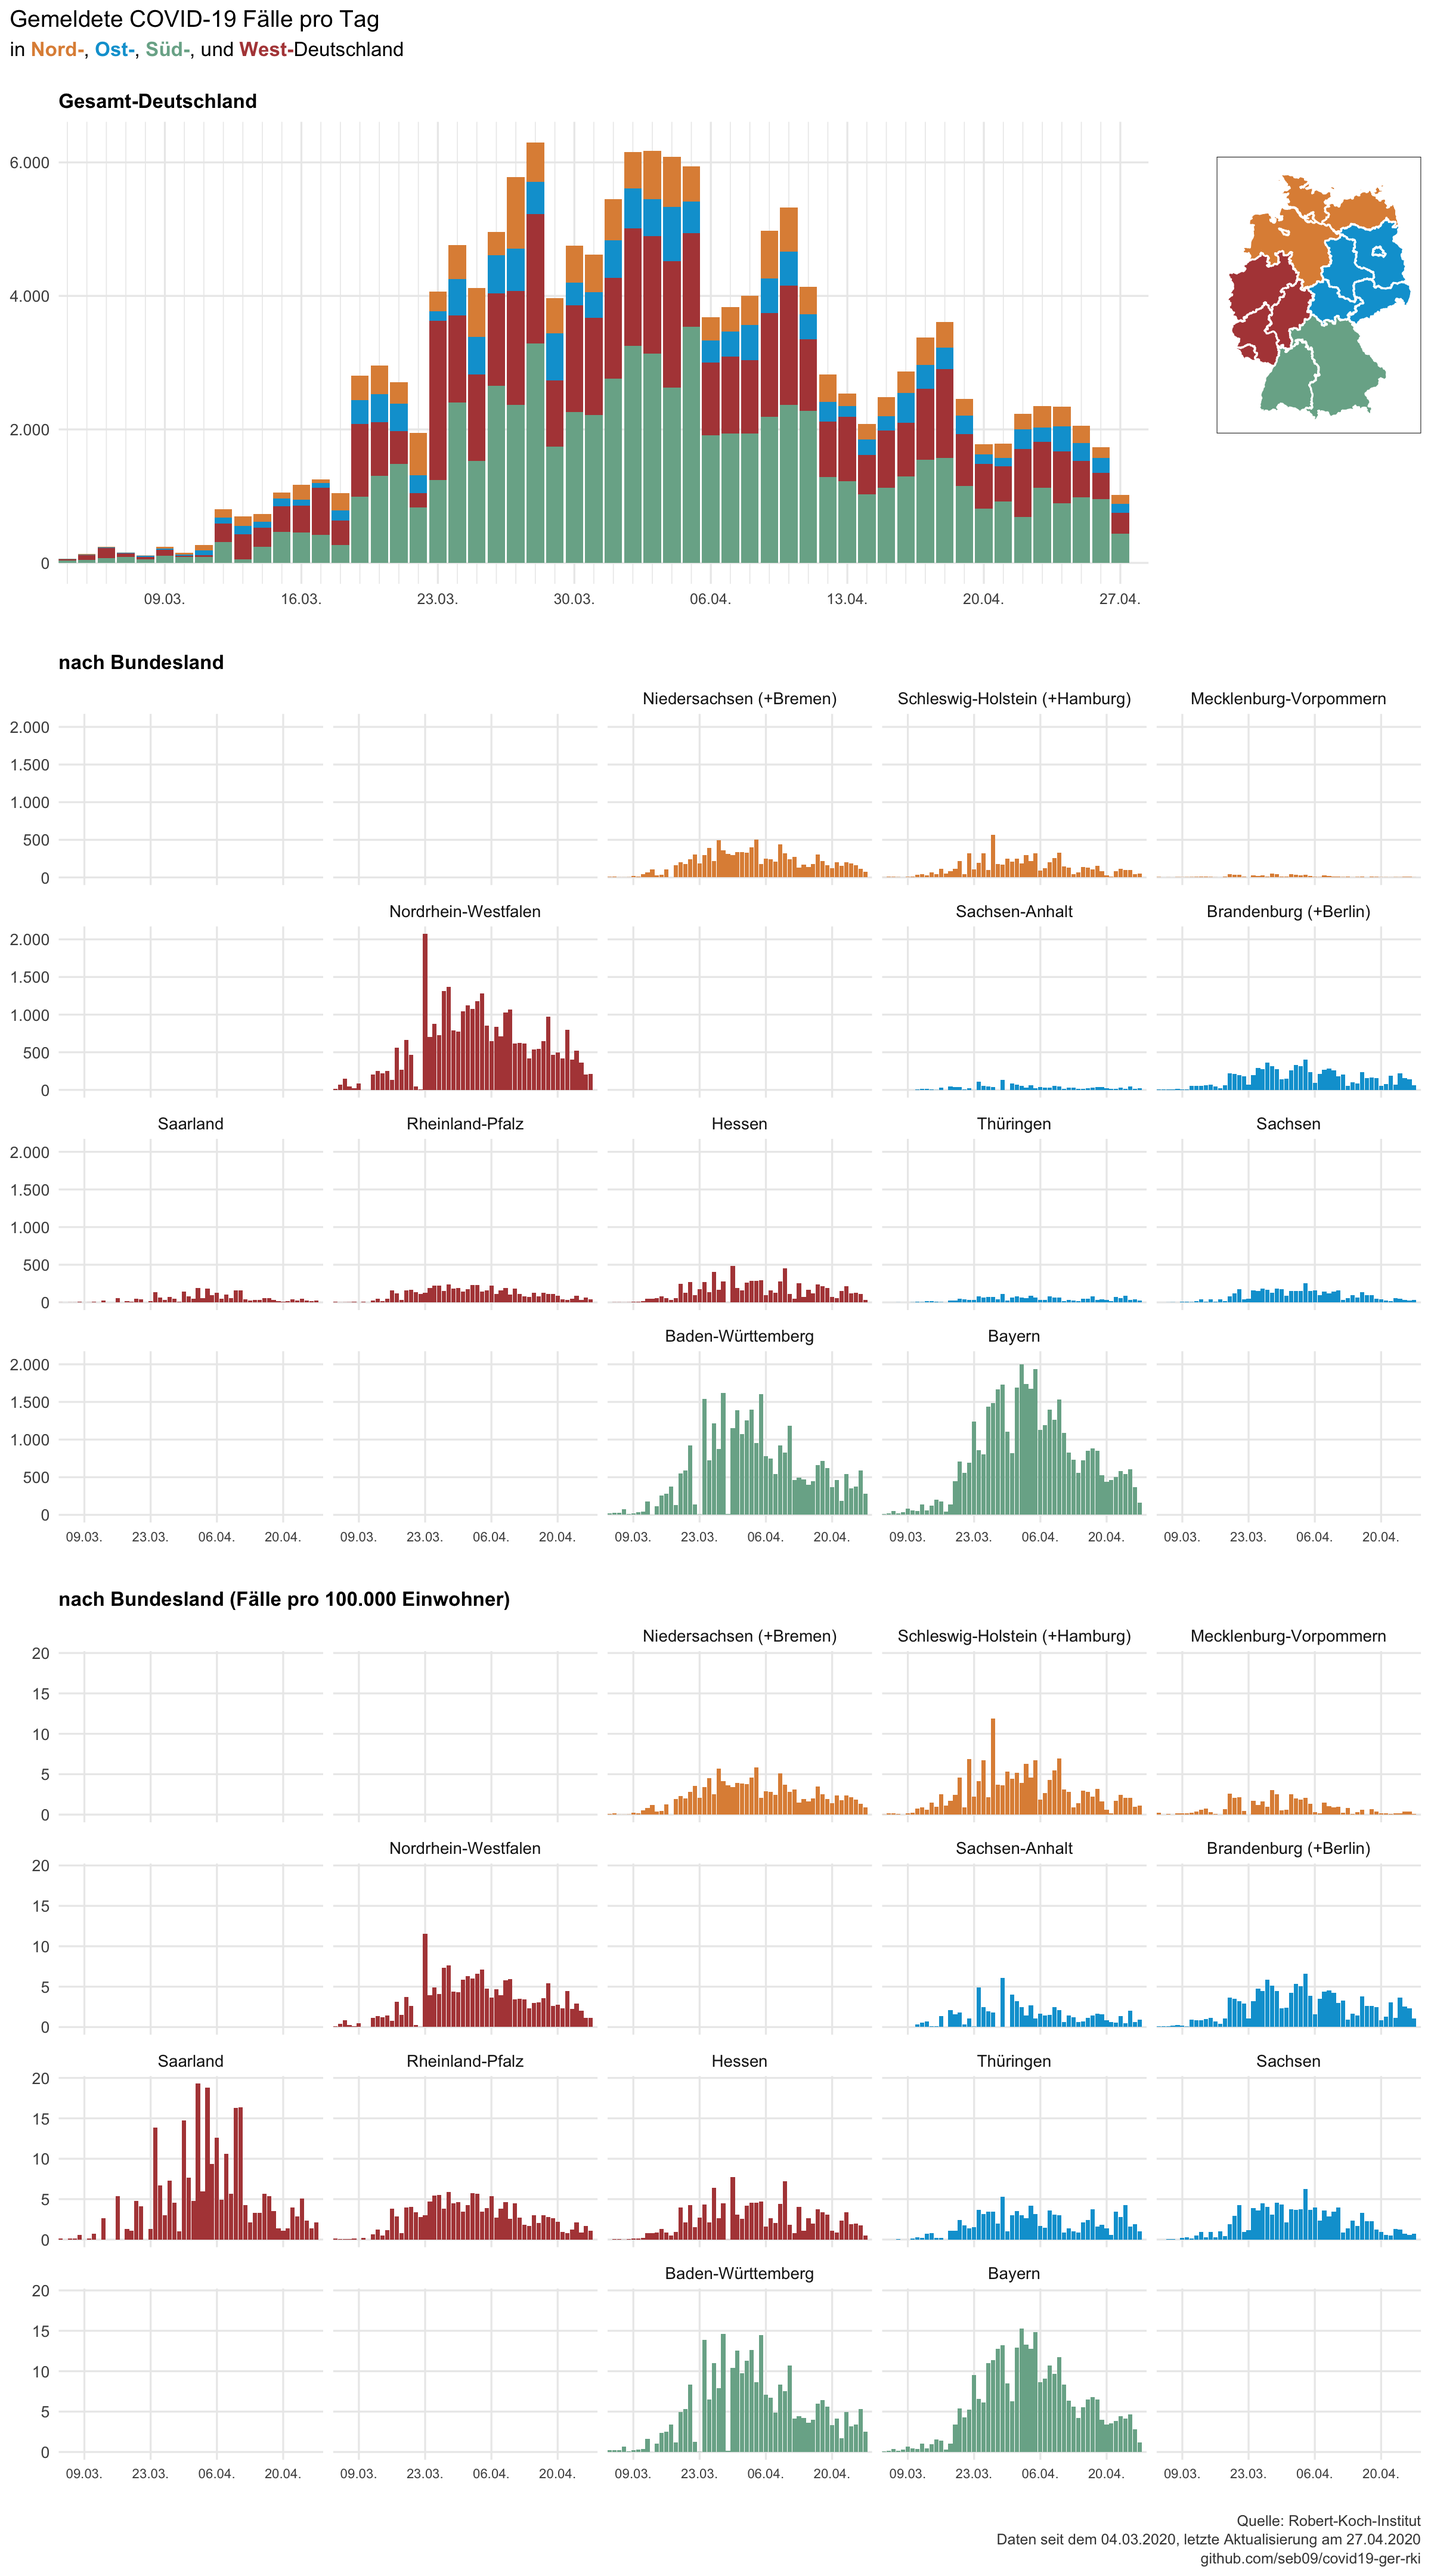
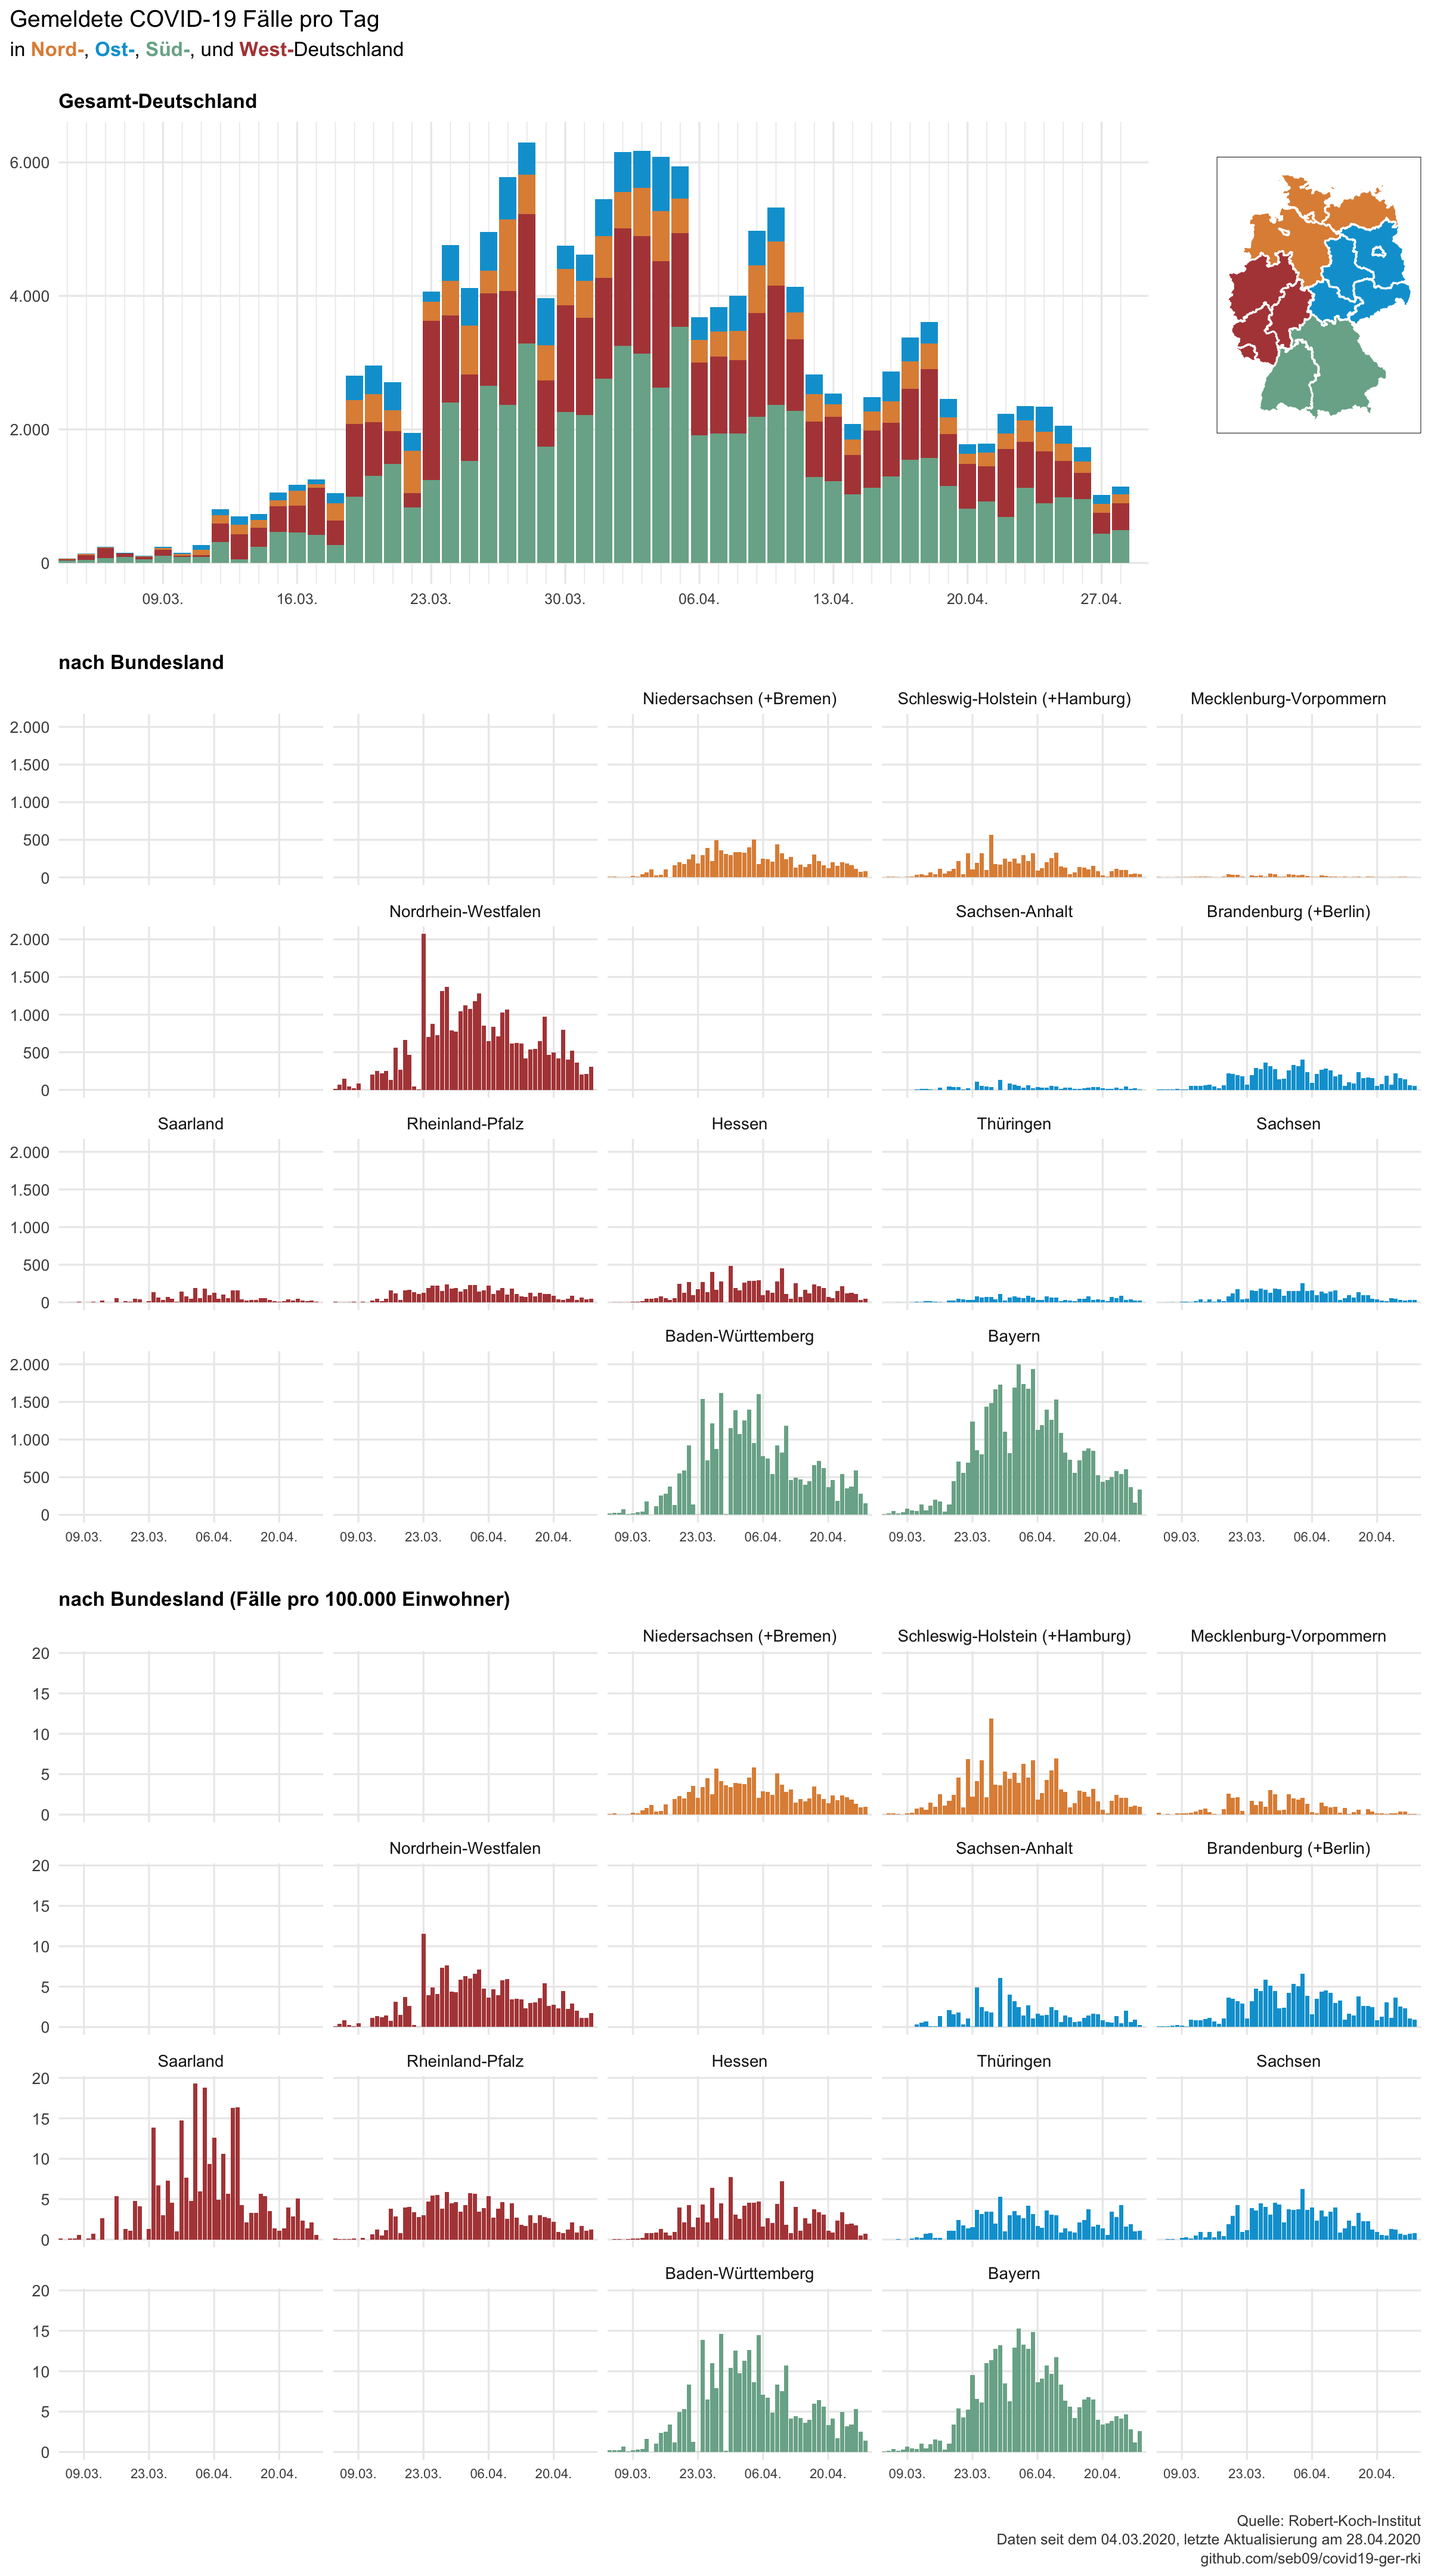
daily update 2020-04-28

diff --git a/README.md b/README.md
@@ -1,6 +1,6 @@
 Data from the Robert-Koch-Institut on COVID-19 in Germany
 ================
-Last update: 2020-04-27
+Last update: 2020-04-28
 
 This repository contains data on reported COVID-19 cases in Germany and
 its federal states that is published daily by the Robert-Koch-Institut
@@ -14,26 +14,26 @@ corona_rki %>%
   print(n = 16)
 ```
 
-    ## # A tibble: 874 x 6
+    ## # A tibble: 890 x 6
     ##    Datum      Bundesland      Fallzahl Todeszahl Fallzahl_neu Todeszahl_neu
     ##    <date>     <chr>              <dbl>     <dbl>        <dbl>         <dbl>
-    ##  1 2020-04-27 Baden-Württemb…    31043      1249          282            12
-    ##  2 2020-04-27 Bayern             41070      1621          158            25
-    ##  3 2020-04-27 Berlin              5638       125           38             2
-    ##  4 2020-04-27 Brandenburg         2721       100           27             0
-    ##  5 2020-04-27 Bremen               754        27           15             0
-    ##  6 2020-04-27 Hamburg             4475       142           46             2
-    ##  7 2020-04-27 Hessen              7979       320           33             5
-    ##  8 2020-04-27 Mecklenburg-Vo…      674        16            1             0
-    ##  9 2020-04-27 Niedersachsen       9847       391           62             7
-    ## 10 2020-04-27 Nordrhein-West…    31879      1131          210            35
-    ## 11 2020-04-27 Rheinland-Pfalz     5879       152           44             5
-    ## 12 2020-04-27 Saarland            2503       121           21            14
-    ## 13 2020-04-27 Sachsen             4458       147           30             0
-    ## 14 2020-04-27 Sachsen-Anhalt      1515        36           21             0
-    ## 15 2020-04-27 Schleswig-Hols…     2638        98            8             2
-    ## 16 2020-04-27 Thüringen           2120        74           22             1
-    ## # … with 858 more rows
+    ##  1 2020-04-28 Baden-Württemb…    31196      1269          153            20
+    ##  2 2020-04-28 Bayern             41406      1681          336            60
+    ##  3 2020-04-28 Berlin              5669       127           31             2
+    ##  4 2020-04-28 Brandenburg         2747       106           26             6
+    ##  5 2020-04-28 Bremen               759        27            5             0
+    ##  6 2020-04-28 Hamburg             4505       142           30             0
+    ##  7 2020-04-28 Hessen              8026       333           47            13
+    ##  8 2020-04-28 Mecklenburg-Vo…      675        17            1             1
+    ##  9 2020-04-28 Niedersachsen       9926       394           79             3
+    ## 10 2020-04-28 Nordrhein-West…    32184      1171          305            40
+    ## 11 2020-04-28 Rheinland-Pfalz     5928       157           49             5
+    ## 12 2020-04-28 Saarland            2509       123            6             2
+    ## 13 2020-04-28 Sachsen             4490       148           32             1
+    ## 14 2020-04-28 Sachsen-Anhalt      1520        39            5             3
+    ## 15 2020-04-28 Schleswig-Hols…     2653       101           15             3
+    ## 16 2020-04-28 Thüringen           2144        78           24             4
+    ## # … with 874 more rows
 
 Data is downloaded each day at 11am from the [website of the
 RKI](https://www.rki.de/DE/Content/InfAZ/N/Neuartiges_Coronavirus/Fallzahlen.html)
